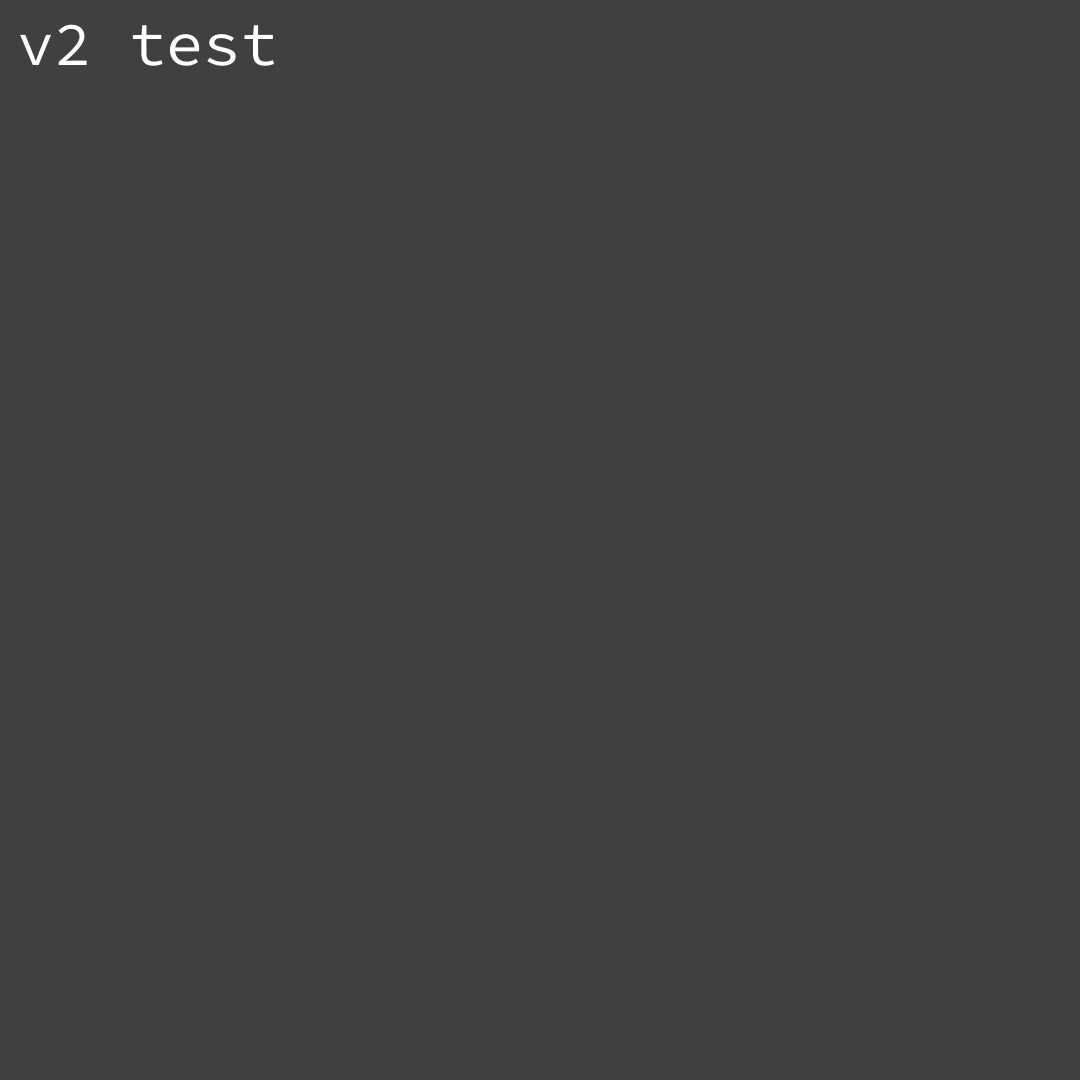
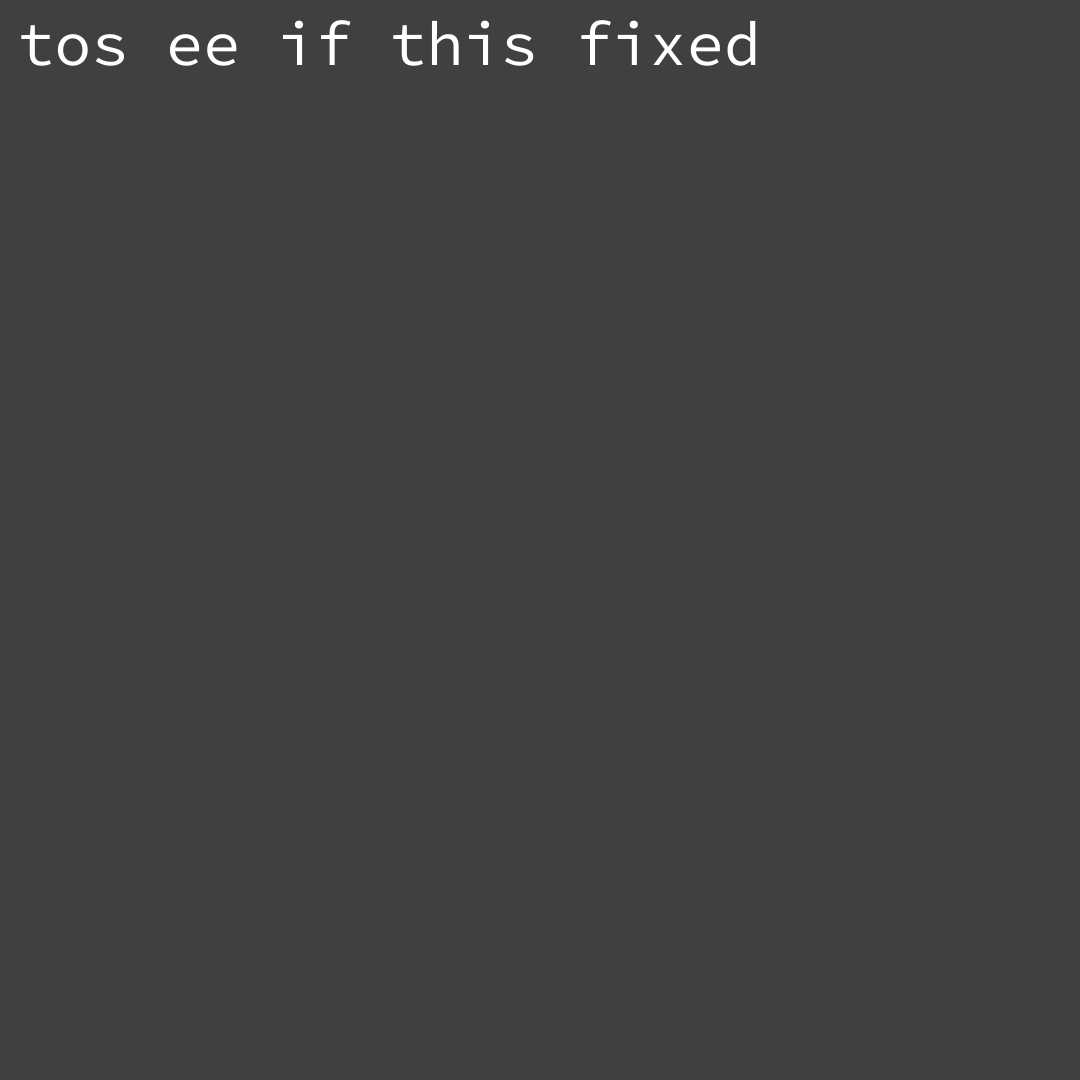
actually fixed the bug for real
it was so stupid. previously i was calling publish() every second, but it seems that if it is called too fast it screws up more. i changed it to every 3 seconds, tested it on my finsta and it didn't screw up once. i think that was literally it

diff --git a/server.js b/server.js
@@ -106,7 +106,7 @@ function publish() {
       logPost(data);
       clearData();
   }
-} setInterval(publish, 1000);
+} setInterval(publish, 3000);
 
 publish();
 
